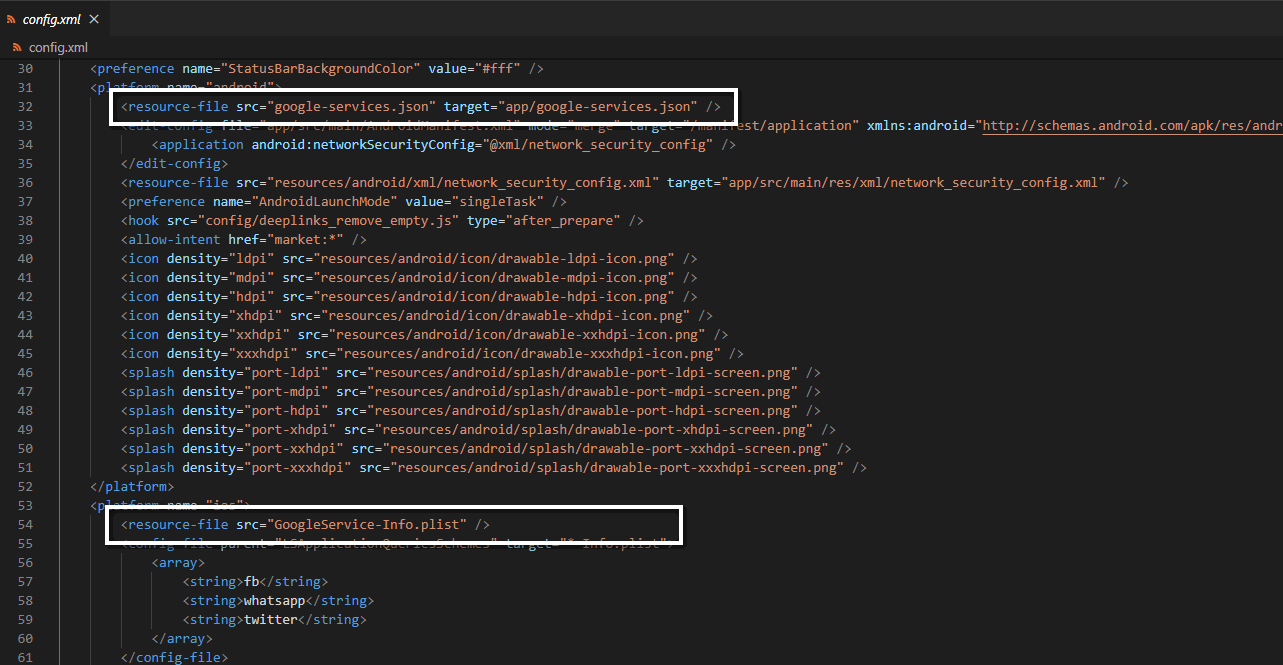
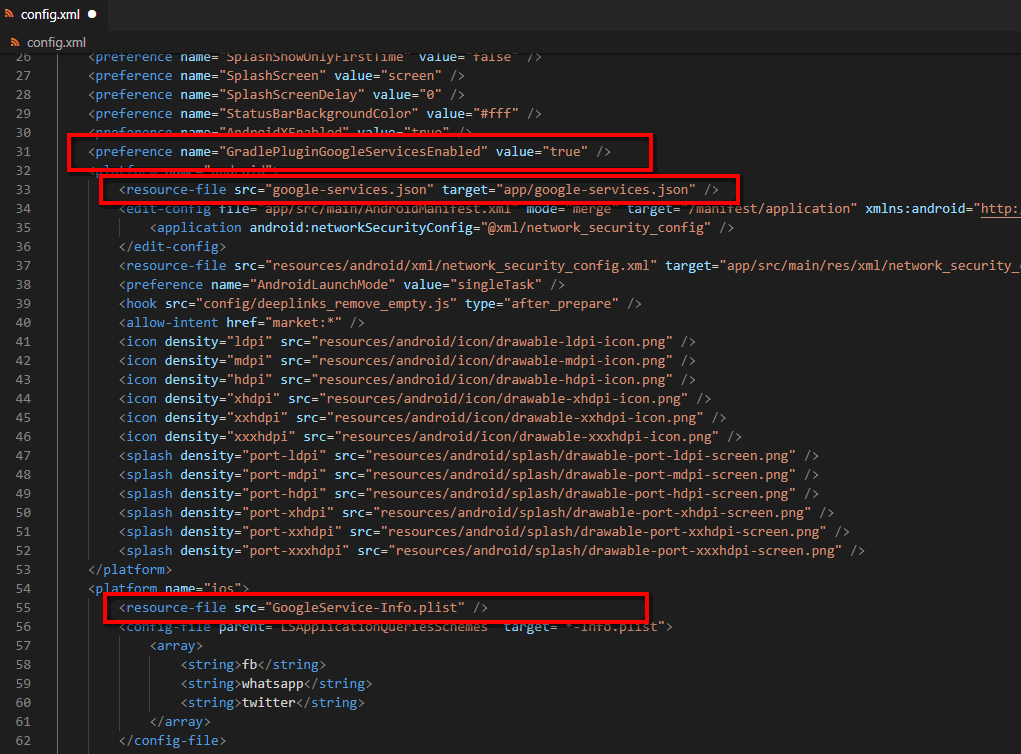
Update config remove firebase analytics

Changed region(s): [[0.0, 0.0, 1.0, 1.0]]

diff --git a/docs/getting-started-config.md b/docs/getting-started-config.md
@@ -49,9 +49,11 @@ If want to use, You can read [Guide Googgle Firebase Analytics](guides-google-an
 
 Else, you do not want use this function then need remove config follow below:
 
-1. Open `/config.xml` file with a text editor and remove 2 line
+1. Open `/config.xml` file with a text editor and remove 3 line
 
 ```
+<preference name="GradlePluginGoogleServicesEnabled" value="true" />
+...
 <resource-file src="google-services.json" target="app/google-services.json" />
 ...
 <resource-file src="GoogleService-Info.plist" />
@@ -59,7 +61,7 @@ Else, you do not want use this function then need remove config follow below:
 
 ![](/halanews-document/docs/assets/config-remove-google-analytics.png)
 
-2. Open `/config.xml` file with a text editor and remove `cordova.plugins.cordova-plugin-firebase-analytics`
+2. Open `/package.json` file with a text editor and remove `cordova.plugins.cordova-plugin-firebase-analytics`
 
 ![](/halanews-document/docs/assets/config-remove-google-analytics-package.png)
 
